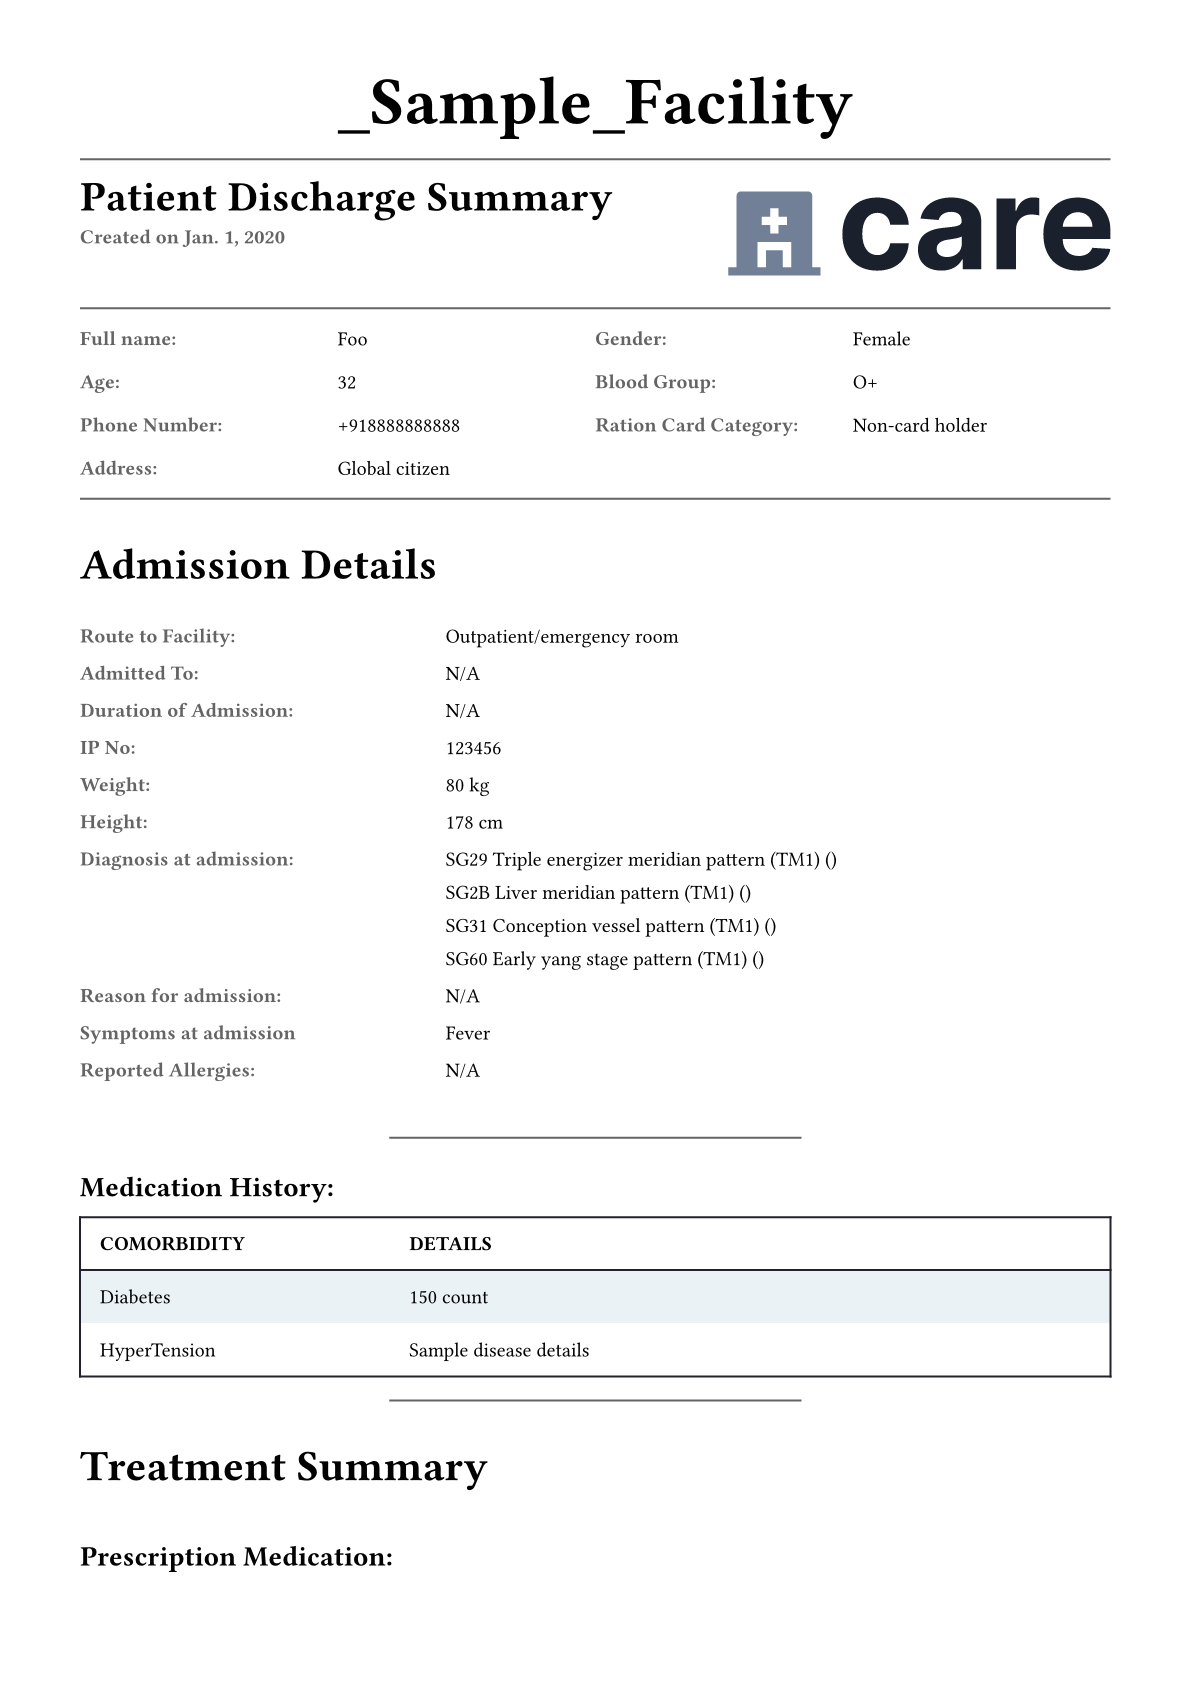
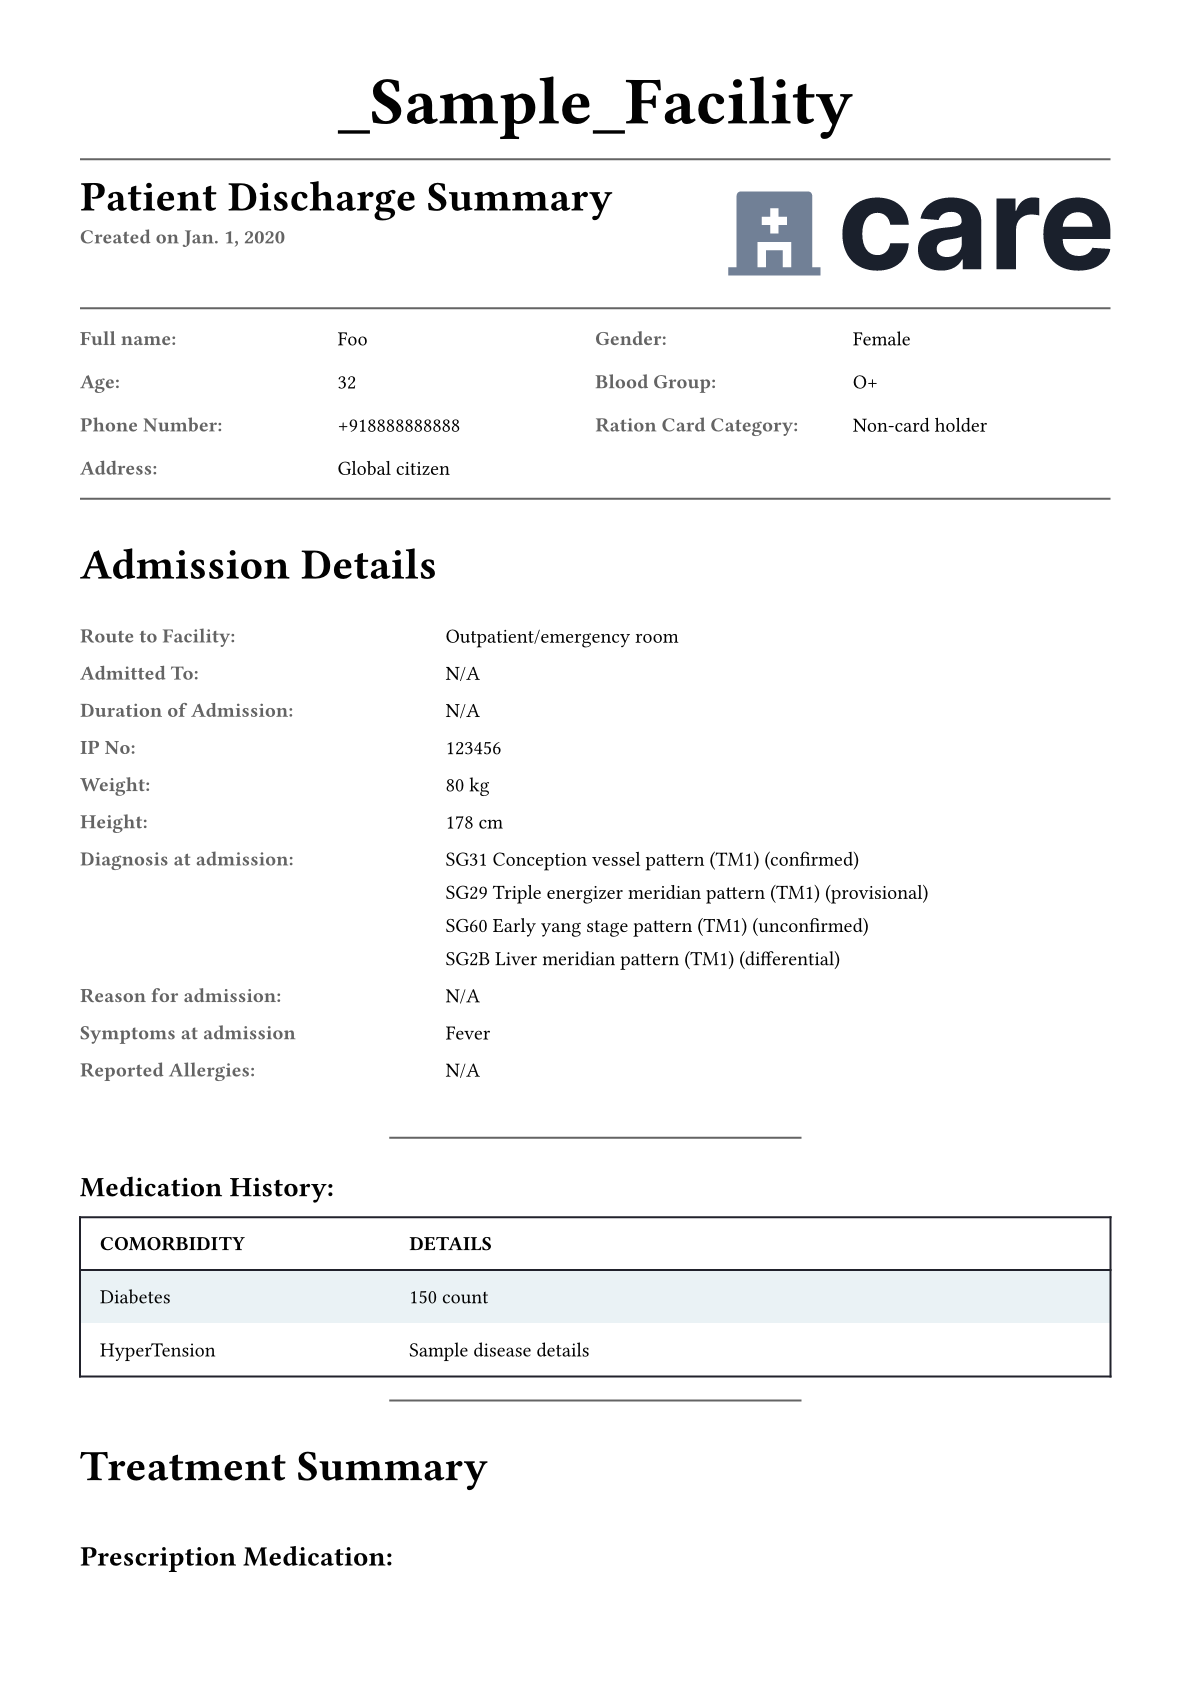
fixed the fetch_icd11_data by ids function

Changed region(s): [[0.4039, 0.4941, 0.7767, 0.5867]]

diff --git a/care/facility/static_data/icd11.py b/care/facility/static_data/icd11.py
@@ -66,12 +66,10 @@ def get_icd11_diagnoses_objects_by_ids(diagnoses_ids: list[int]) -> list[ICD11Ob
     if not diagnoses_ids:
         return []
 
-    query = None
+    diagnoses_objects = []
     for diagnosis_id in diagnoses_ids:
-        if query is None:
-            query = ICD11.id == diagnosis_id
-        else:
-            query |= ICD11.id == diagnosis_id
+        diagnoses = get_icd11_diagnosis_object_by_id(diagnosis_id)
+        if diagnoses:
+            diagnoses_objects.append(diagnoses)
 
-    diagnosis_objects: list[ICD11] = list(ICD11.find(query))
-    return [diagnosis.get_representation() for diagnosis in diagnosis_objects]
+    return diagnoses_objects

diff --git a/care/facility/utils/reports/discharge_summary.py b/care/facility/utils/reports/discharge_summary.py
@@ -74,6 +74,8 @@ def get_diagnoses_data(consultation: PatientConsultation):
     for diagnosis, record in zip(diagnoses, entries):
         _, verification_status, is_principal = record
 
+        diagnosis.status = verification_status
+
         if is_principal:
             principal.append(diagnosis)
         if verification_status == ConditionVerificationStatus.UNCONFIRMED:

diff --git a/care/facility/tests/test_pdf_generation.py b/care/facility/tests/test_pdf_generation.py
@@ -226,5 +226,4 @@ class TestGenerateDischargeSummaryPDF(TestCase, TestUtils):
         data["date"] = date(2020, 1, 1)
 
         # This sorting is test's specific and done in order to keep the values in order
-        data["diagnoses"] = sorted(data["diagnoses"], key=lambda x: x["label"])
         self.assertTrue(test_compile_typ(data))
